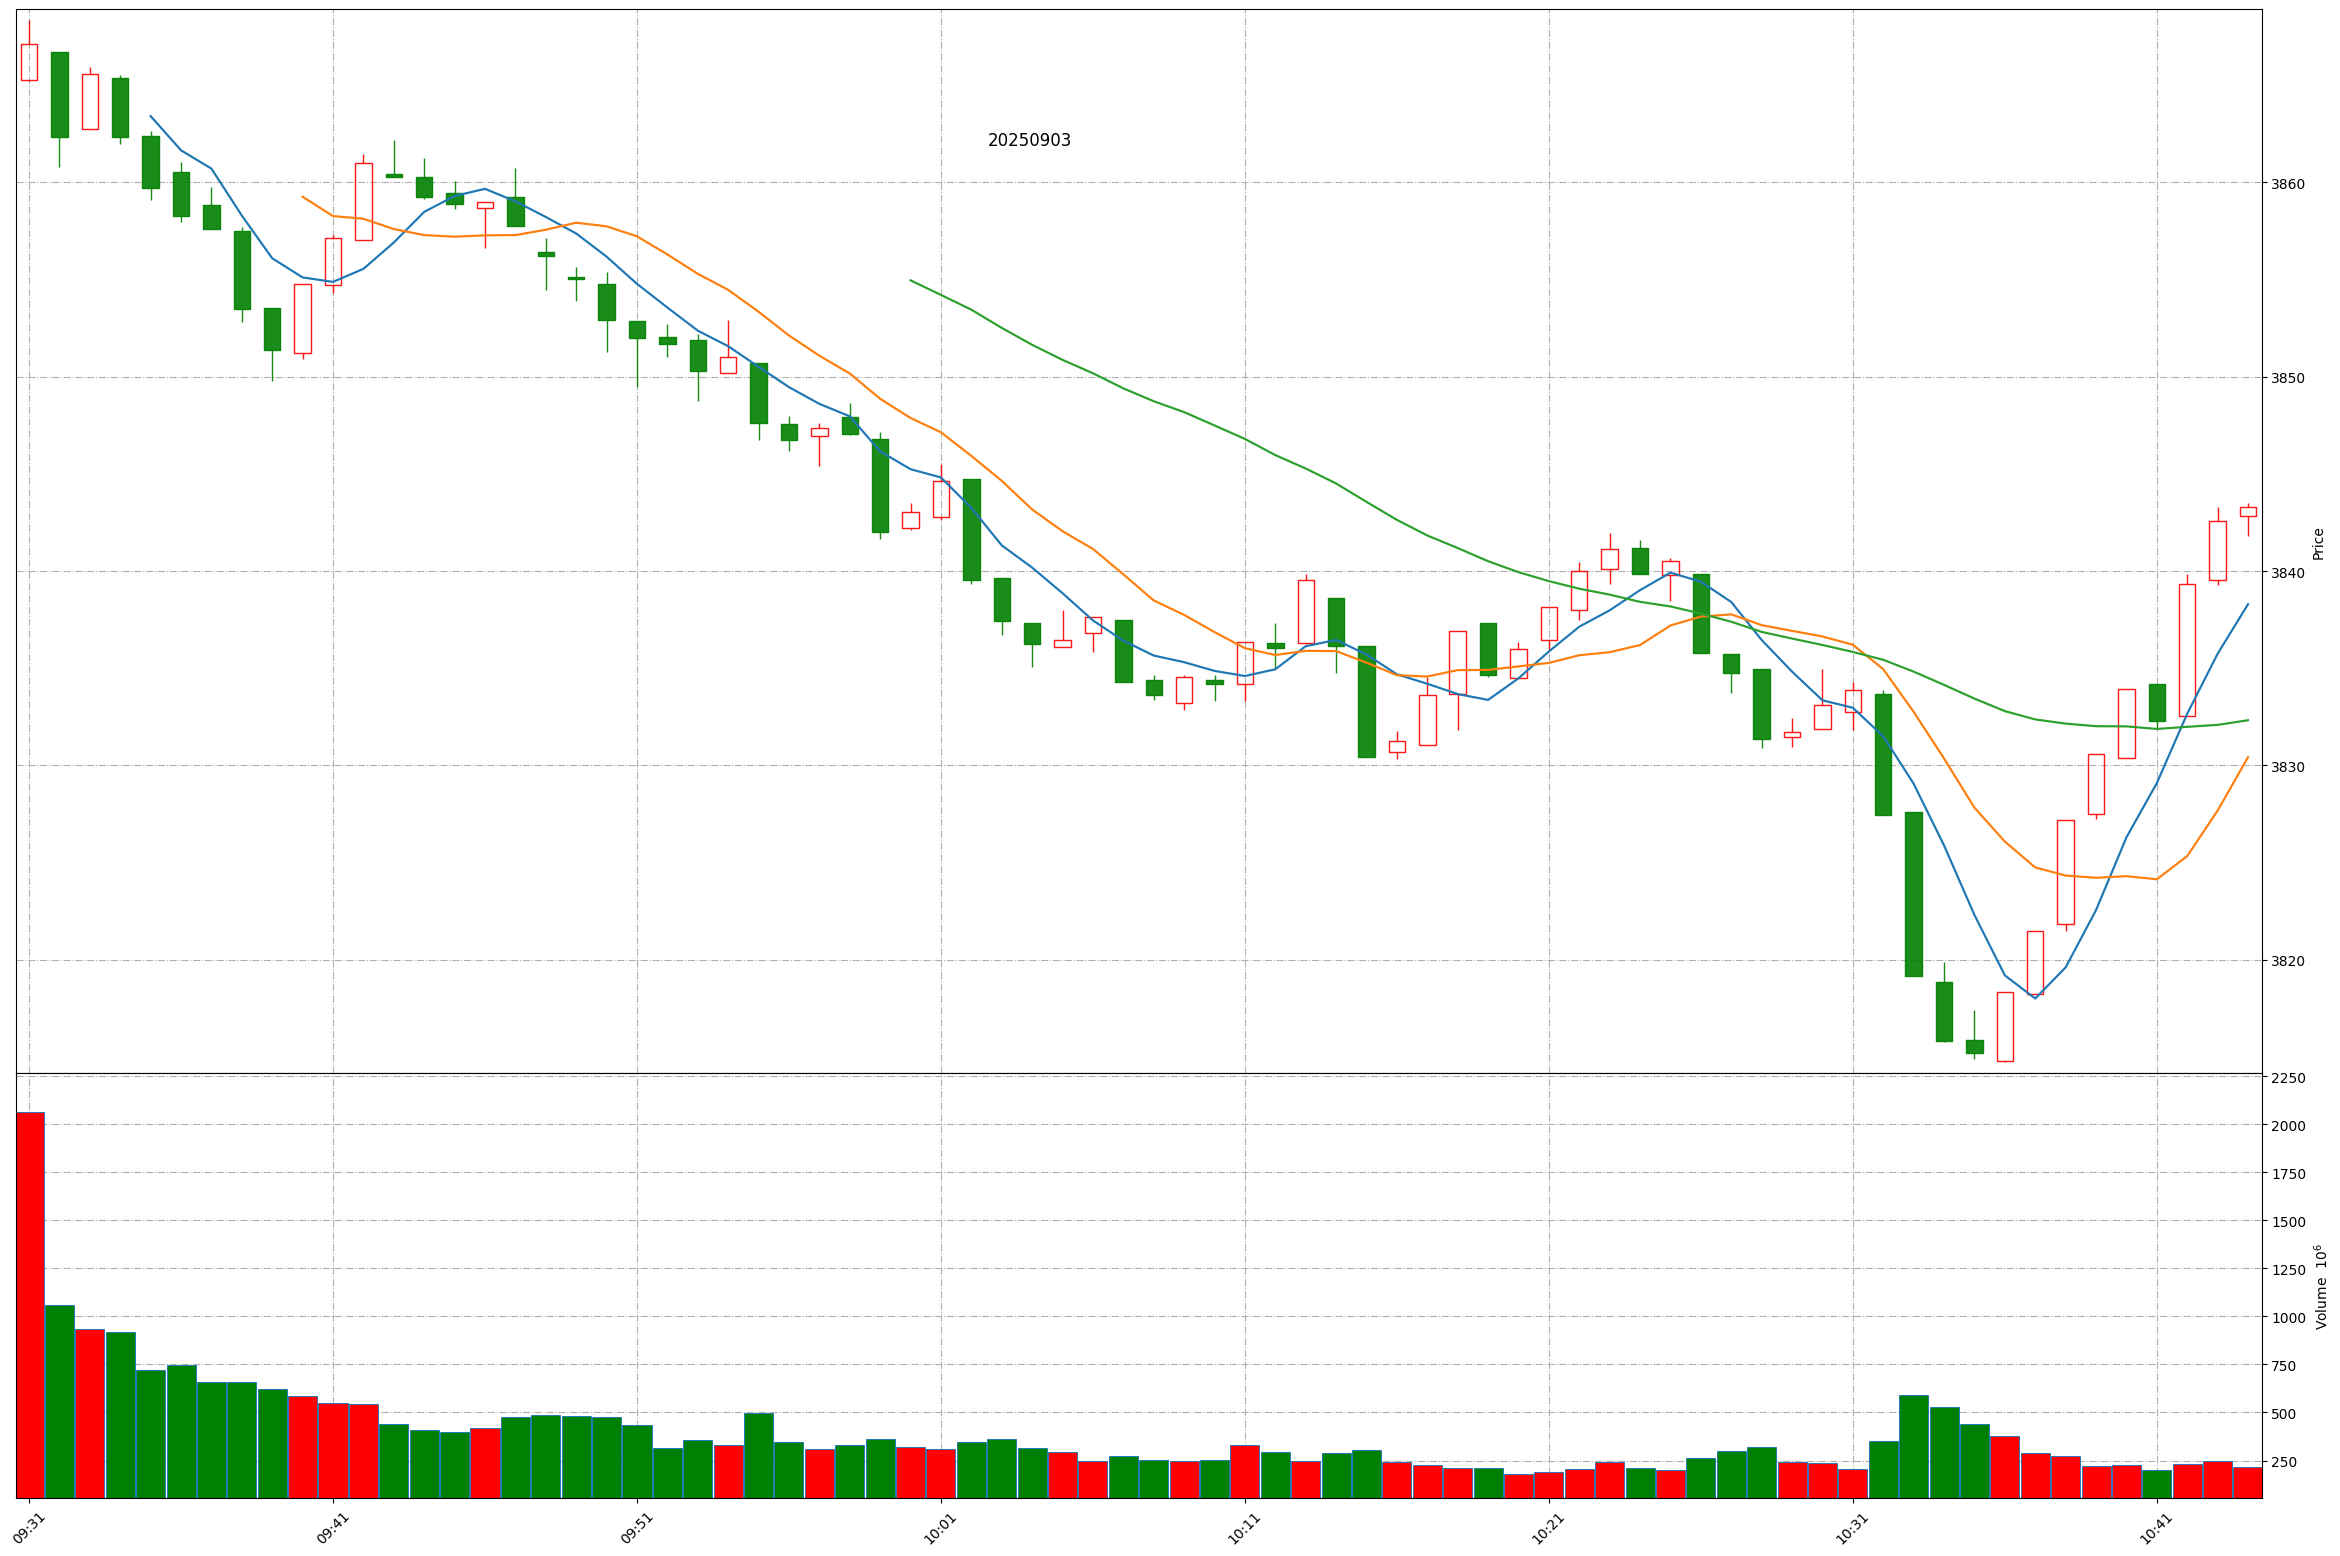
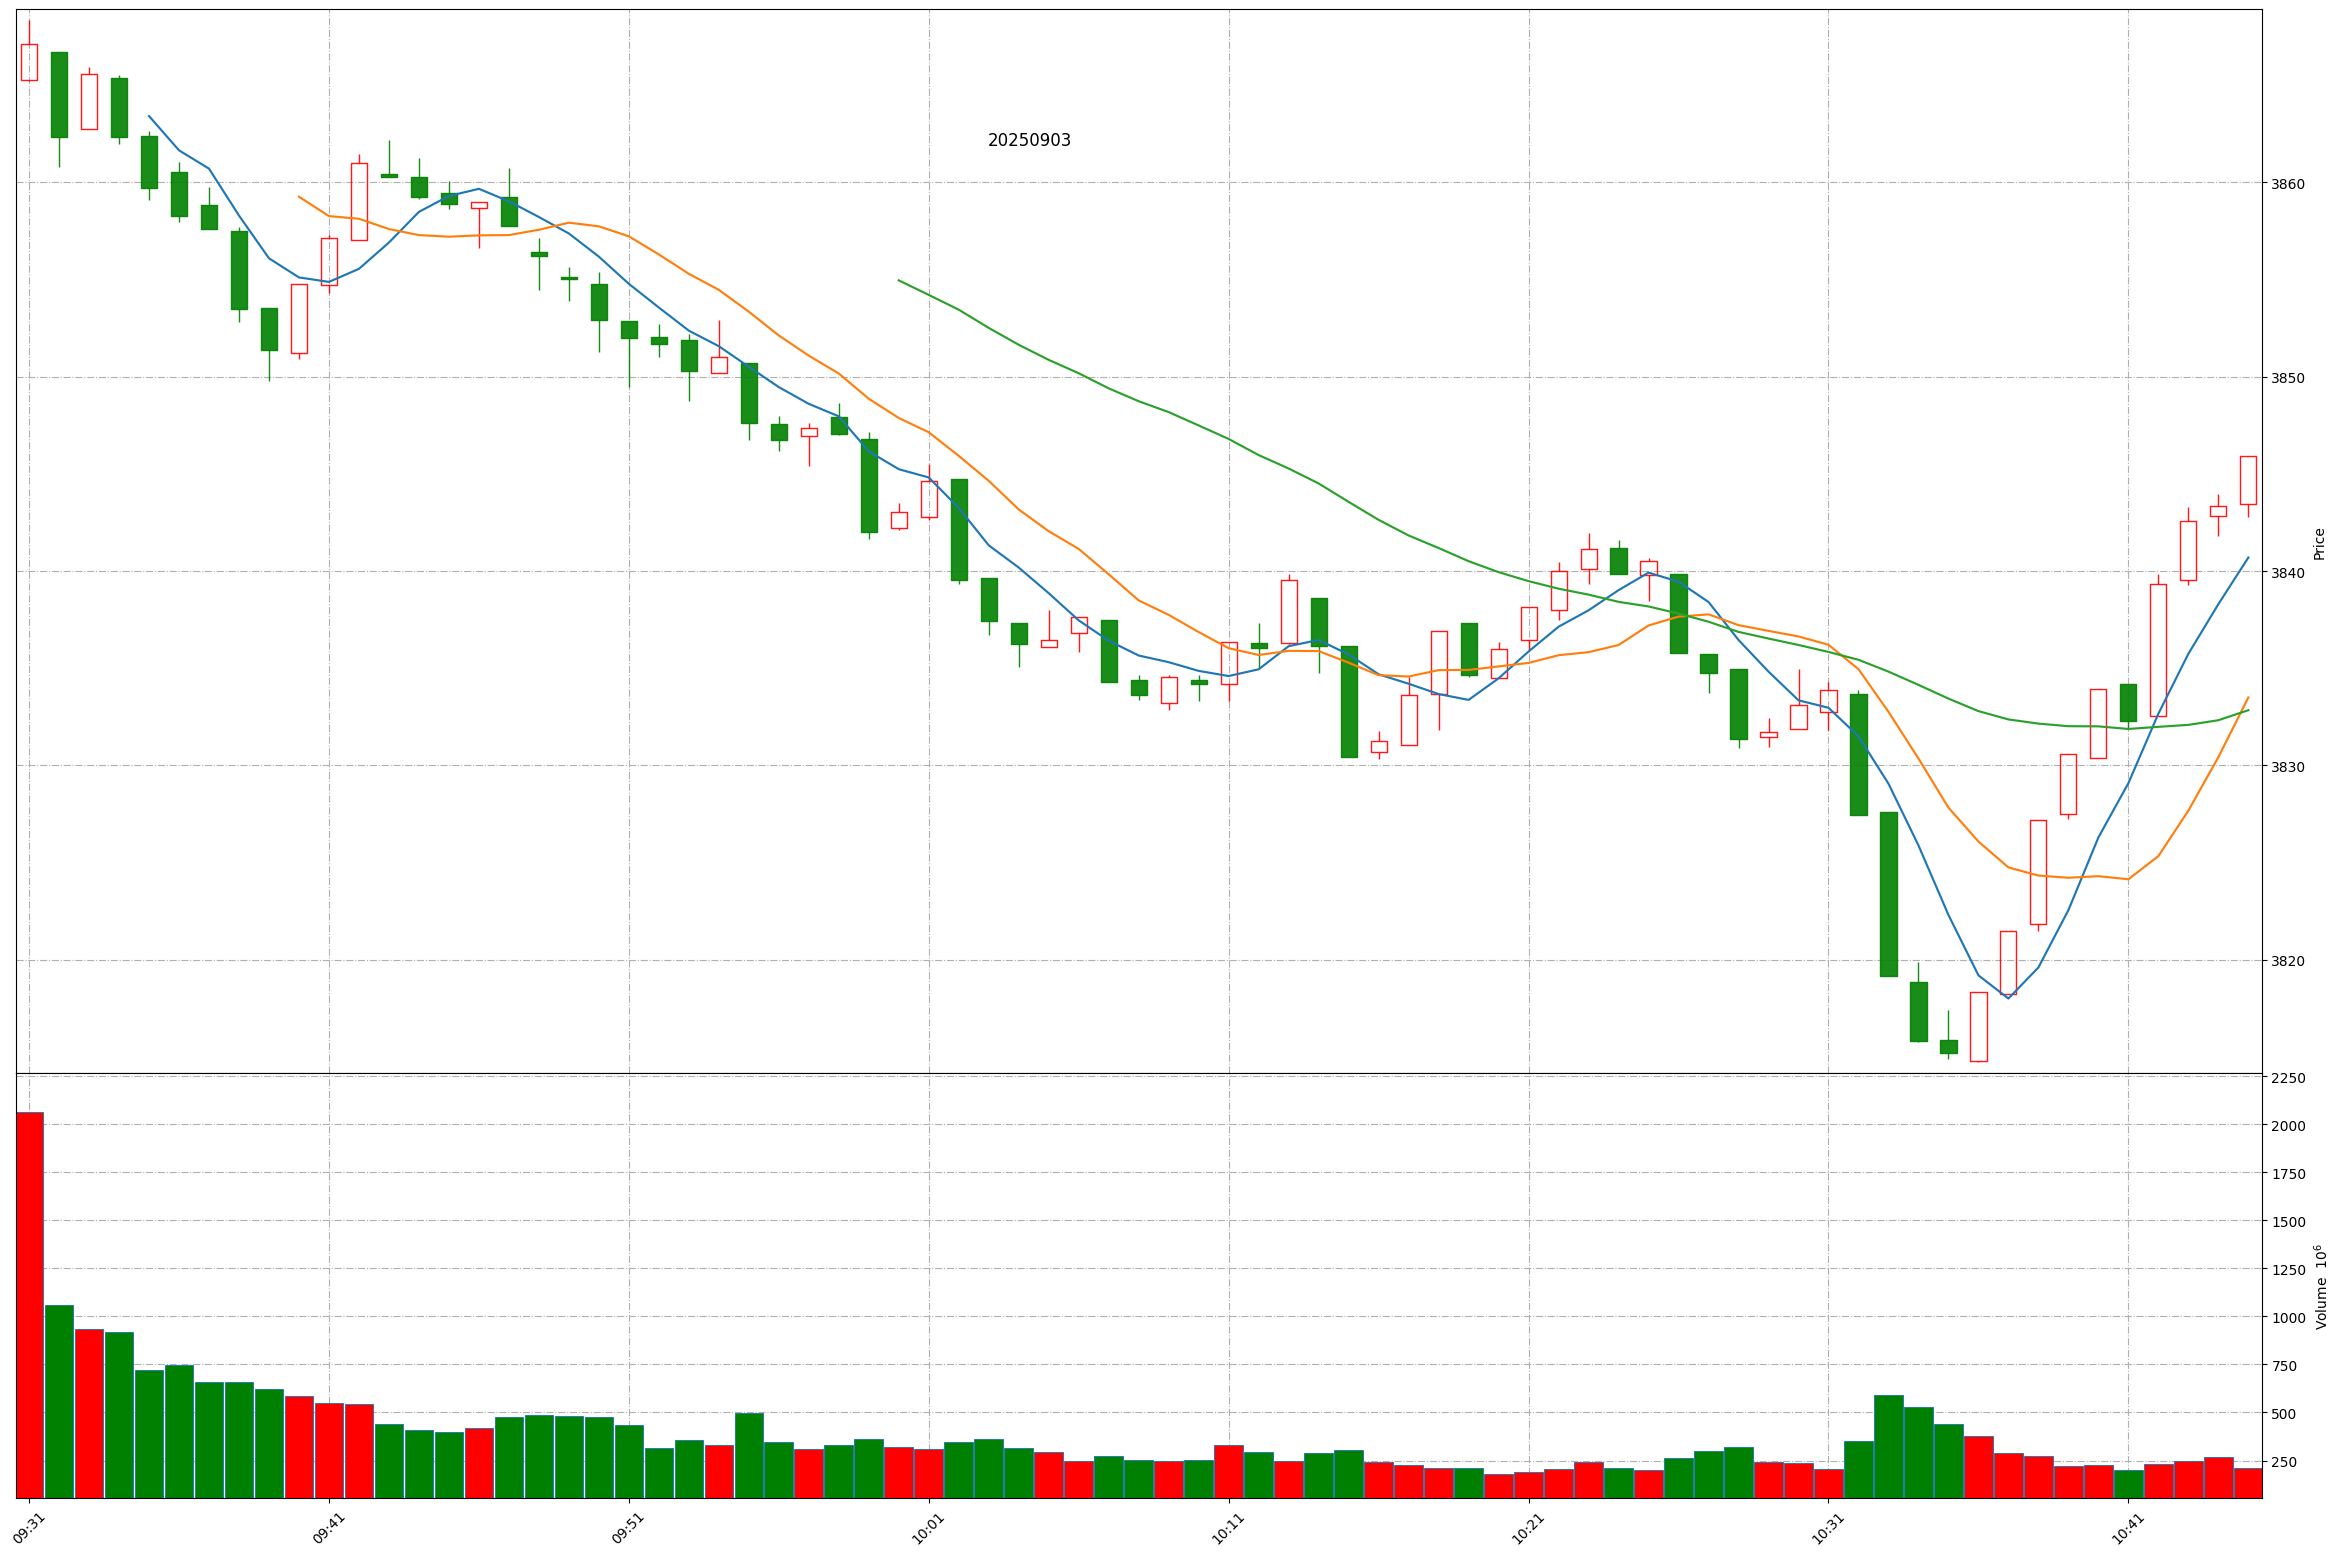
Github action update at 2025-09-03 10:45:08.

diff --git a/README.md b/README.md
@@ -1,11 +1,11 @@
 
 # Daily-A-share-market-quotes 每日 A 股指数（5min 更新）- 20250903
 
-### 上证指数 20250903 10:44
+### 上证指数 20250903 10:45
 ![](./fig/2025/9/20250903-sh000001.png)
 
-### 深证成指 20250903 10:44
+### 深证成指 20250903 10:45
 ![](./fig/2025/9/20250903-sz399001.png)
 
-### 北证50 20250903 10:44
+### 北证50 20250903 10:45
 ![](./fig/2025/9/20250903-bj899050.png)
